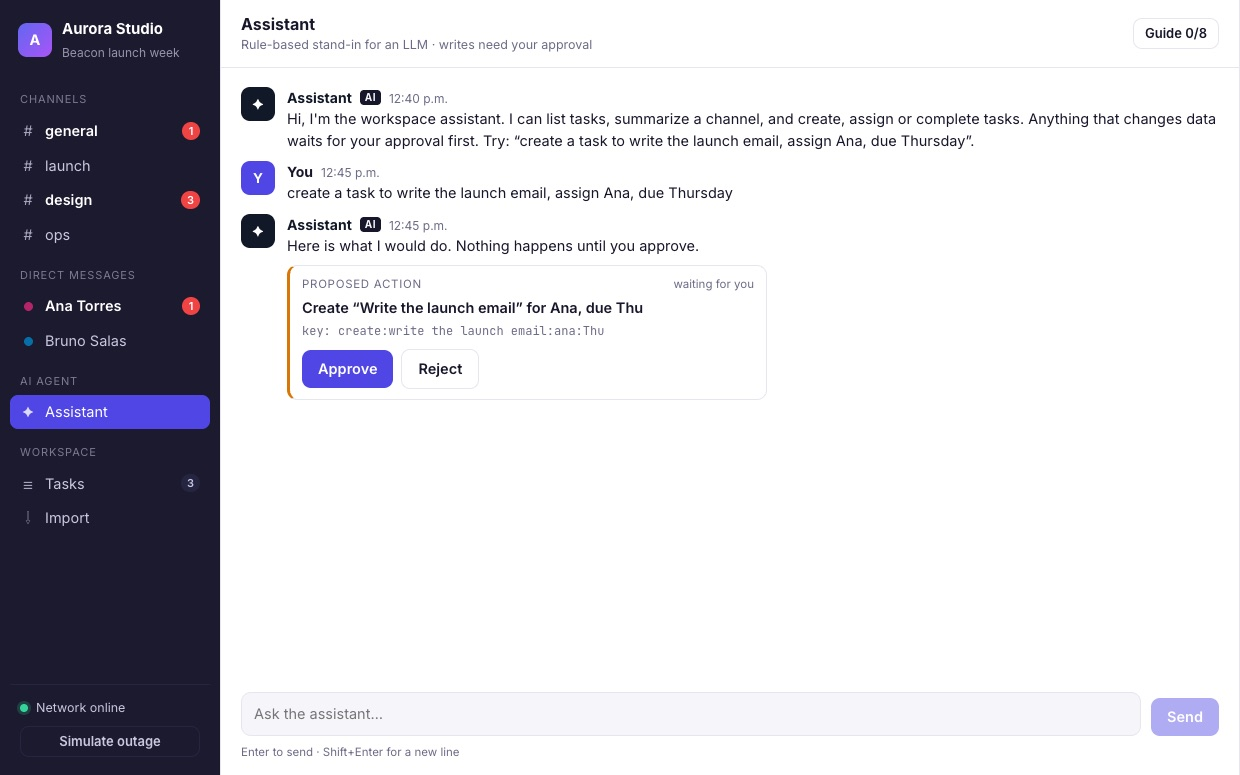
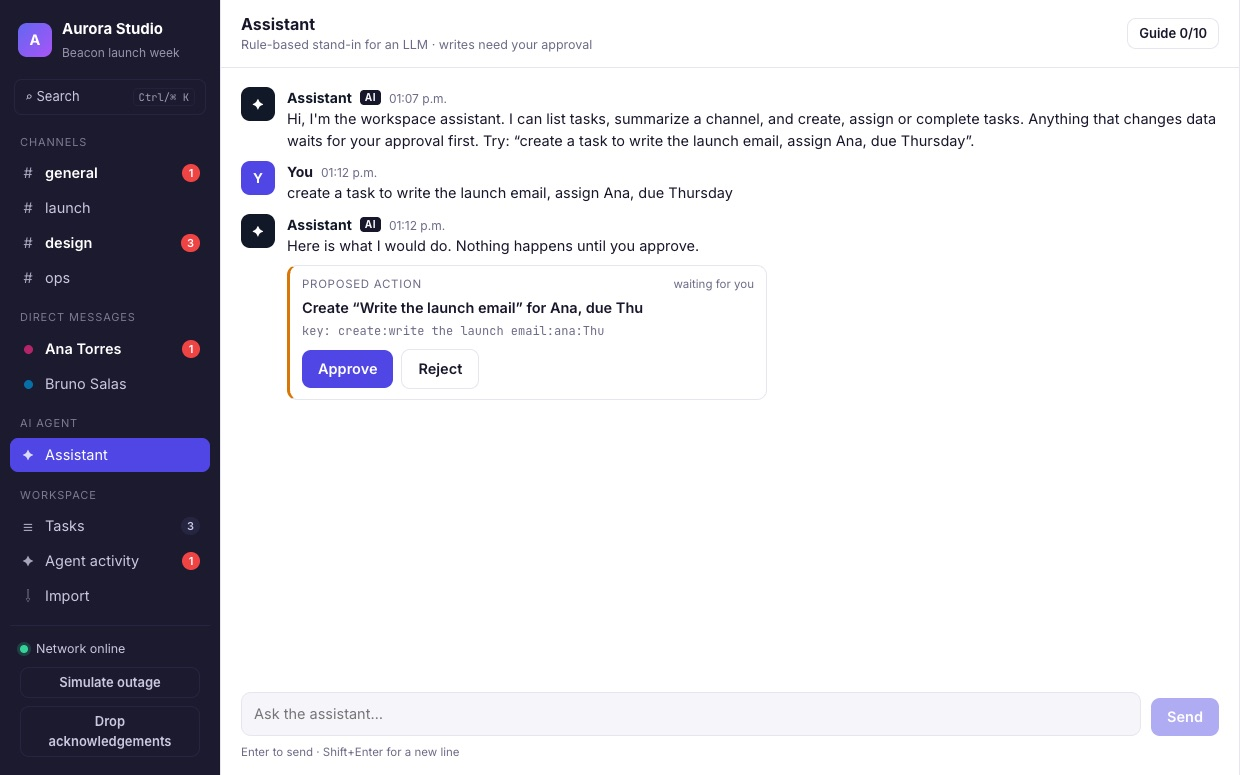
Workspace + AI agent as flagship controlled demo, first in Work

diff --git a/index.html b/index.html
@@ -164,6 +164,45 @@
   <section class="sec" id="work">
     <div class="sec-head"><b><span data-en>Selected work</span><span data-es>Trabajo seleccionado</span></b><span>02</span></div>
 
+    <!-- Workspace demo (flagship, controlled version of the UNO-style work) -->
+    <article class="proj rv" id="workspace">
+      <div class="info">
+        <p class="pill"><i></i><span data-en>Flagship · controlled demo</span><span data-es>Principal · demo controlada</span></p>
+        <h3>Workspace + AI agent</h3>
+        <p data-en>My strongest product work is on UNO, an AI-native platform for running companies, where I own the Communications experience. UNO is confidential, so this is the controlled version: an independent workspace I built from scratch on fictional data, showing the same class of problems (team chat, an AI agent with human-authorized actions, safe imports).</p>
+        <p data-es>Mi trabajo de producto más sólido es en UNO, una plataforma nativa en IA para operar empresas, donde soy responsable de la experiencia de Comunicaciones. UNO es confidencial, así que esta es la versión controlada: un espacio de trabajo independiente que construí desde cero con datos ficticios, y muestra el mismo tipo de problemas (chat de equipo, un agente de IA con acciones autorizadas por humanos, importaciones seguras).</p>
+        <ul class="tags"><li>React</li><li>Optimistic UI</li><li>Idempotency</li><li>Human-in-the-loop</li><li>Agents</li></ul>
+        <details class="why" open>
+          <summary><span data-en>What it demonstrates</span><span data-es>Qué demuestra</span></summary>
+          <ul data-en>
+            <li><b>Human-authorized agent actions.</b> The assistant only proposes; nothing changes until a person approves the exact action.</li>
+            <li><b>Exactly-once execution.</b> Every write carries an execution key. “Approve again” is blocked and logged, and an Agent activity view shows each key and how many replays were stopped.</li>
+            <li><b>Delivery that survives failure.</b> Sends appear instantly, fail visibly, and can be retried. You can even drop the acknowledgements: the server stores the message, the client thinks it failed, and the retry is recognised by its id and delivered once.</li>
+            <li><b>Idempotent import.</b> A fictional Slack export carries external ids; importing it twice adds 0.</li>
+            <li><b>The details of a real chat.</b> Drafts per conversation, unread badges, @mentions, a “New” marker, threads, reactions, edit and delete, search (Ctrl/⌘ K).</li>
+            <li><b>Honest scope.</b> A front-end simulation of the patterns: no server, and the assistant is rule-based, not an LLM. The page says so.</li>
+          </ul>
+          <ul data-es>
+            <li><b>Acciones del agente autorizadas por humanos.</b> El asistente solo propone; nada cambia hasta que una persona aprueba la acción exacta.</li>
+            <li><b>Ejecución exactamente-una-vez.</b> Cada escritura lleva una llave de ejecución. “Aprobar otra vez” se bloquea y queda registrado, y una vista de Actividad del agente muestra cada llave y cuántas repeticiones se detuvieron.</li>
+            <li><b>Entrega que sobrevive a fallos.</b> Los envíos aparecen al instante, fallan de forma visible y se pueden reintentar. Incluso puedes perder las confirmaciones: el servidor guarda el mensaje, el cliente cree que falló, y el reintento se reconoce por su id y se entrega una sola vez.</li>
+            <li><b>Importación idempotente.</b> Una exportación ficticia de Slack trae ids externos; importarla dos veces agrega 0.</li>
+            <li><b>Los detalles de un chat real.</b> Borradores por conversación, no leídos, @menciones, marcador de “Nuevos”, hilos, reacciones, editar y borrar, búsqueda (Ctrl/⌘ K).</li>
+            <li><b>Alcance honesto.</b> Una simulación front-end de los patrones: sin servidor, y el asistente es por reglas, no un LLM. La página lo dice.</li>
+          </ul>
+        </details>
+        <div class="btn-row"><a class="btn solid" href="https://workspace-demo-kohl.vercel.app" target="_blank" rel="noopener">Live demo ↗</a>
+          <span class="btn off"><span data-en>Independent demo · not UNO's code or data</span><span data-es>Demo independiente · no es código ni datos de UNO</span></span></div>
+      </div>
+      <div class="frame">
+        <div class="chrome"><i></i><i></i><i></i><span class="url">workspace-demo-kohl.vercel.app</span></div>
+        <div class="viewport" data-live="https://workspace-demo-kohl.vercel.app/?embed=1" data-w="1240" data-h="775" data-title="Workspace demo: team chat with an AI agent">
+          <img src="./img/workspace.jpg" alt="Workspace demo: the assistant proposes creating a task and waits for approval" width="1240" height="775" loading="lazy" />
+          <button class="try" type="button"><span data-en>▶ Try it live</span><span data-es>▶ Probar en vivo</span></button>
+        </div>
+      </div>
+    </article>
+
     <!-- Press & Breathe -->
     <article class="proj rv">
       <div class="info">
@@ -318,43 +357,6 @@
         <div class="chrome"><i></i><i></i><i></i><span class="url">motoya-five.vercel.app</span></div>
         <div class="viewport" data-live="https://motoya-five.vercel.app/?embed=1" data-w="1240" data-h="775" data-title="MotoYa live demo: rider and driver phones">
           <img src="./img/motoya.jpg" alt="MotoYa: rider phone choosing between three driver offers, driver phone showing offer sent" width="1240" height="775" loading="lazy" />
-          <button class="try" type="button"><span data-en>▶ Try it live</span><span data-es>▶ Probar en vivo</span></button>
-        </div>
-      </div>
-    </article>
-
-    <!-- Workspace demo -->
-    <article class="proj rv" id="workspace">
-      <div class="info">
-        <p class="pill"><i></i><span data-en>Live demo · controlled environment</span><span data-es>Demo en vivo · entorno controlado</span></p>
-        <h3>Workspace demo</h3>
-        <p data-en>A team workspace with an AI agent, built from scratch around a fictional studio so I can show how I design this kind of product without any real company data. Chat, threads and drafts on the surface; the interesting part is the control flow underneath.</p>
-        <p data-es>Un espacio de trabajo de equipo con un agente de IA, construido desde cero alrededor de un estudio ficticio para mostrar cómo diseño este tipo de producto sin datos de ninguna empresa real. Chat, hilos y borradores en la superficie; lo interesante es el flujo de control por debajo.</p>
-        <ul class="tags"><li>React</li><li>Vite</li><li>Optimistic UI</li><li>Idempotency</li><li>Human-in-the-loop</li></ul>
-        <details class="why">
-          <summary><span data-en>Decisions &amp; lessons</span><span data-es>Decisiones y aprendizajes</span></summary>
-          <ul data-en>
-            <li><b>Human-authorized agent actions.</b> The assistant only proposes; nothing changes until a person approves the exact action.</li>
-            <li><b>Exactly-once execution.</b> Each proposal carries an execution key. Pressing “Approve again” is blocked and logged, so a double click or a retry can't create the task twice.</li>
-            <li><b>Sends that survive outages.</b> Messages appear instantly, fail visibly when the network drops and can be retried; a client id stops duplicates.</li>
-            <li><b>Idempotent import.</b> A fictional Slack export carries external ids; importing it twice adds 0.</li>
-            <li><b>Honest scope.</b> A front-end simulation of the patterns: no server, and the assistant is rule-based, not an LLM. The page says so.</li>
-          </ul>
-          <ul data-es>
-            <li><b>Acciones del agente autorizadas por humanos.</b> El asistente solo propone; nada cambia hasta que una persona aprueba la acción exacta.</li>
-            <li><b>Ejecución exactamente-una-vez.</b> Cada propuesta lleva una llave de ejecución. “Aprobar otra vez” se bloquea y queda registrado: un doble clic o un reintento no crea la tarea dos veces.</li>
-            <li><b>Envíos que sobreviven a las caídas.</b> Los mensajes aparecen al instante, fallan de forma visible si cae la red y se pueden reintentar; un id de cliente evita duplicados.</li>
-            <li><b>Importación idempotente.</b> Una exportación ficticia de Slack trae ids externos; importarla dos veces agrega 0.</li>
-            <li><b>Alcance honesto.</b> Una simulación front-end de los patrones: sin servidor, y el asistente es por reglas, no un LLM. La página lo dice.</li>
-          </ul>
-        </details>
-        <div class="btn-row"><a class="btn solid" href="https://workspace-demo-kohl.vercel.app" target="_blank" rel="noopener">Live demo ↗</a>
-          <span class="btn off"><span data-en>Private repo · walkthrough on request</span><span data-es>Repo privado · recorrido a pedido</span></span></div>
-      </div>
-      <div class="frame">
-        <div class="chrome"><i></i><i></i><i></i><span class="url">workspace-demo-kohl.vercel.app</span></div>
-        <div class="viewport" data-live="https://workspace-demo-kohl.vercel.app/?embed=1" data-w="1240" data-h="775" data-title="Workspace demo: team chat with an AI agent">
-          <img src="./img/workspace.jpg" alt="Workspace demo: the assistant proposes creating a task and waits for approval" width="1240" height="775" loading="lazy" />
           <button class="try" type="button"><span data-en>▶ Try it live</span><span data-es>▶ Probar en vivo</span></button>
         </div>
       </div>
